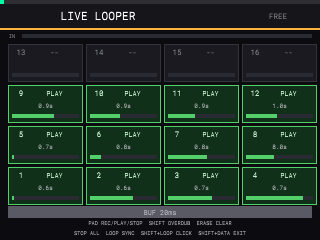
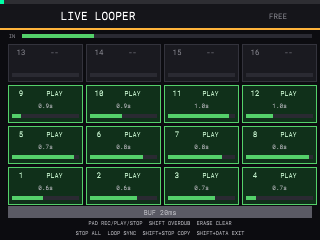
feat(looper): SHIFT+STOP copies closed loops to new pads
Stop the loops, copy each closed loop into the Looper RAM, close the
fullscreen view, then write the buffers through the app's buffered
Extract path to free sampler pads named Loop 1..Loop 16. It is
all-or-nothing: not enough free pads leaves the view open with a notice.
The footer and docs show the new combo.

diff --git a/rust/crates/minimod/src/looper_bounce.rs b/rust/crates/minimod/src/looper_bounce.rs
@@ -1,0 +1,106 @@
+//! Copy the Live Looper's closed loops into new sampler pads.
+
+use core::ffi::CStr;
+
+use mpc_sample_sdk::platform::extract;
+
+use crate::backend::looper::{
+    looper_close, looper_copy_loop, looper_loop_len, looper_notice, looper_stop_all,
+};
+
+/// One name per looper pad, used as the new sample's name.
+const NAMES: [&CStr; 16] = [
+    c"Loop 1", c"Loop 2", c"Loop 3", c"Loop 4", c"Loop 5", c"Loop 6", c"Loop 7", c"Loop 8",
+    c"Loop 9", c"Loop 10", c"Loop 11", c"Loop 12", c"Loop 13", c"Loop 14", c"Loop 15", c"Loop 16",
+];
+
+/// The first `count` empty pads on the live Sample page, or `None`.
+fn free_pads(count: usize) -> Option<Vec<i32>> {
+    let surface = crate::control::surface();
+    if surface == 0 {
+        return None;
+    }
+    let mut found = Vec::with_capacity(count);
+    for pad in 0..128i32 {
+        if found.len() == count {
+            break;
+        }
+        if crate::pads::sample_for_pad(surface, pad).is_none() {
+            found.push(pad);
+        }
+    }
+    (found.len() == count).then_some(found)
+}
+
+/// Stop the loops, write every closed loop to an empty pad and report.
+///
+/// Returns `true` when the caller may close the looper: every loop was copied,
+/// or there was nothing to copy. A partial copy or a full ring keeps the view
+/// open with a notice.
+#[must_use]
+pub fn copy_all() -> bool {
+    looper_stop_all();
+    let mut loops = Vec::new();
+    for pad in 0..NAMES.len() {
+        let len = looper_loop_len(pad);
+        if len == 0 {
+            continue;
+        }
+        let Ok(frames) = usize::try_from(len) else {
+            continue;
+        };
+        let mut audio = vec![0.0_f32; frames];
+        if looper_copy_loop(pad, &mut audio) != len {
+            looper_notice("COPY: read failed");
+            return false;
+        }
+        loops.push((pad, audio));
+    }
+    if loops.is_empty() {
+        looper_close();
+        crate::paint::show_toast("Looper: no loops");
+        return true;
+    }
+    let Some(destinations) = free_pads(loops.len()) else {
+        let message = format!("COPY: need {} empty pads", loops.len());
+        looper_notice(&message);
+        return false;
+    };
+    // Extract must run on the native Sample page, not under the fullscreen
+    // looper overlay. The loops are already copied into `loops`, so closing
+    // first keeps the engine's buffers untouched.
+    looper_close();
+    let screen = crate::paint::screen();
+    let Some(state) = crate::selection::page_state(screen) else {
+        crate::paint::show_toast("Looper: no Sample page");
+        return false;
+    };
+    for ((pad, audio), _destination) in loops.iter().zip(destinations) {
+        let Ok(frames) = u32::try_from(audio.len()) else {
+            crate::paint::show_toast("Looper: copy failed");
+            return false;
+        };
+        // Use the same buffered Extract path as HPSS rather than the seeded
+        // `generated` path: it lets the app assign the next free pad itself and
+        // remains stable across several writes in one command.
+        let request = extract::Request {
+            screen,
+            state,
+            name: NAMES[*pad],
+            buffer: Some(audio),
+            source_frames: frames,
+            channels: 1,
+            start: 0,
+            end: frames,
+            destination: None,
+        };
+        // SAFETY: `screen` and `state` are the live Sample page on this UI
+        // thread and the audio stays alive through the synchronous call.
+        if unsafe { extract::run(&request) }.is_err() {
+            crate::paint::show_toast("Looper: copy failed");
+            return false;
+        }
+    }
+    crate::paint::show_toast(&format!("Looper: copied {} loops", loops.len()));
+    true
+}

diff --git a/rust/crates/minimod/src/ui.rs b/rust/crates/minimod/src/ui.rs
@@ -15,6 +15,8 @@ use mpc_sample_sdk::{ButtonEvent, ButtonFlow};
 
 /// The app's CHOP key.
 pub use mpc_sample_sdk::event::button::CHOP as CHOP_KEY;
+/// The looper's STOP button; SHIFT+STOP copies the loops to pads and exits.
+const LOOPER_STOP: u32 = 0x51;
 /// A full press, as the app reports it.
 /// PLUS.
 use mpc_sample_sdk::event::button::PLUS as KEY_PLUS;
@@ -154,12 +156,18 @@ pub fn press(state: &mut State, event: &ButtonEvent, hooks: Hooks) -> Flow {
             Action::Erase(on) => state.erase = i32::from(on),
             Action::Looper => {
                 let was = looper::looper_is_open() != 0;
-                let _ = looper::looper_button(
-                    code,
-                    i32::try_from(down).unwrap_or(0),
-                    state.shift,
-                    state.erase,
-                );
+                if code == LOOPER_STOP && down != 0 && state.shift != 0 {
+                    // SHIFT+STOP bounces every closed loop to a free pad and
+                    // closes the view; a failed copy keeps it open.
+                    let _ = crate::looper_bounce::copy_all();
+                } else {
+                    let _ = looper::looper_button(
+                        code,
+                        i32::try_from(down).unwrap_or(0),
+                        state.shift,
+                        state.erase,
+                    );
+                }
                 if was && looper::looper_is_open() == 0 {
                     crate::looper_lights::hide();
                     state.shift = 0;

diff --git a/rust/crates/dsp/src/looper.rs b/rust/crates/dsp/src/looper.rs
@@ -530,6 +530,41 @@ impl Engine {
         true
     }
 
+    /// Closed length of one loop, in frames.
+    #[must_use]
+    pub fn loop_len(index: usize) -> u32 {
+        PADS_ARRAY
+            .get(index)
+            .map_or(0, |pad| pad.len.load(Ordering::Acquire))
+    }
+
+    /// Copy one closed loop into `out`; returns the frames copied.
+    ///
+    /// The caller stops the engine first, so the audio thread is no longer
+    /// writing the pad. The pool is never freed and each loop has its own
+    /// `MAX_FRAMES` slot.
+    pub fn copy_loop(index: usize, out: &mut [f32]) -> u32 {
+        let Some(pad) = PADS_ARRAY.get(index) else {
+            return 0;
+        };
+        let len = pad.len.load(Ordering::Acquire).min(MAX_FRAMES as u32);
+        let pool = POOL.load(Ordering::Acquire);
+        if len == 0 || pool.is_null() {
+            return 0;
+        }
+        let count = usize::try_from(len).unwrap_or(0).min(out.len());
+        if count == 0 {
+            return 0;
+        }
+        // SAFETY: the pool is a process-lifetime mapping with PADS slots of
+        // MAX_FRAMES f32 each; the engine is stopped, so this read does not
+        // race a writer, and `out` has room for `count` elements.
+        unsafe {
+            core::ptr::copy_nonoverlapping(pool.add(index * MAX_FRAMES), out.as_mut_ptr(), count);
+        }
+        u32::try_from(count).unwrap_or(0)
+    }
+
     /// MAIN VOLUME, 0..127.
     pub fn set_master(value: u32) {
         MASTER.store(value.min(127), Ordering::Release);

diff --git a/rust/crates/minimod/src/backend/looper.rs b/rust/crates/minimod/src/backend/looper.rs
@@ -34,6 +34,27 @@ pub fn looper_button(code: u32, down: i32, shift: i32, erase: i32) -> i32 {
     i32::from(Engine::button(code, down != 0, shift != 0, erase != 0))
 }
 
+/// Stop every loop before copying it out.
+pub fn looper_stop_all() {
+    Engine::stop_all();
+}
+
+/// Closed length of one loop, in frames.
+#[must_use]
+pub fn looper_loop_len(index: usize) -> u32 {
+    Engine::loop_len(index)
+}
+
+/// Copy one closed loop into `out`.
+pub fn looper_copy_loop(index: usize, out: &mut [f32]) -> u32 {
+    Engine::copy_loop(index, out)
+}
+
+/// Close the fullscreen view, keeping the loops in RAM.
+pub fn looper_close() {
+    Engine::close();
+}
+
 /// Set MAIN VOLUME, 0..127.
 pub fn looper_set_master(value: u32) {
     Engine::set_master(value);

diff --git a/mod/tests/emulator_looper.py b/mod/tests/emulator_looper.py
@@ -176,6 +176,8 @@ def main():
 
     # --- the record latency is the firmware's own ring geometry, read from the
     #     device: one full ALSA buffer per direction, no probe involved
+    tap('SAMPLE')
+    time.sleep(1.0)
     route('tone')
     if u32(symbol('g_open')):
         close_looper()          # a previous run may have left the view open

diff --git a/rust/crates/minimod/src/looper_view.rs b/rust/crates/minimod/src/looper_view.rs
@@ -262,7 +262,7 @@ fn footer(graphics: usize, view: &View) {
     );
     paint::text(
         graphics,
-        "STOP ALL  LOOP SYNC  SHIFT+LOOP CLICK  SHIFT+DATA EXIT",
+        "STOP ALL  LOOP SYNC  SHIFT+STOP COPY  SHIFT+DATA EXIT",
         8,
         224,
         304,

diff --git a/mod/tests/emulator_looper_lights.py b/mod/tests/emulator_looper_lights.py
@@ -47,6 +47,8 @@ def main():
         got = pads()[pad]
         assert got == colour, f'{label}: pad {pad + 1} is {got}, want {colour}'
 
+    tap('SAMPLE')
+    time.sleep(1.0)
     before = pads()
 
     # SHIFT + DATA opens the menu; row 6 is Live Looper.

diff --git a/rust/crates/minimod/src/lib.rs b/rust/crates/minimod/src/lib.rs
@@ -20,6 +20,7 @@ pub mod cfg;
 pub mod input;
 pub mod jobflow;
 pub mod levels;
+pub mod looper_bounce;
 pub mod looper_lights;
 pub mod looper_view;
 pub mod menu;

diff --git a/README.md b/README.md
@@ -60,7 +60,7 @@ level of the SD card and power on; see [Install](#install).
 | **Add Reverb** — adds the firmware's stereo reverb and a rendered tail to a new pad copy | `SHIFT` + `DATA`, choose **Add Reverb**, `DATA` |
 | **Vinyl / Lo-Fi** — applies the firmware's Vinyl or Decimator effect to a new pad copy | `SHIFT` + `DATA`, choose **Vinyl** or **Lo-Fi**, `DATA` |
 | **Synth** — eight characters (bass, piano, pads, lead, bells, strings, voice, organ); previews C2–D#3 from pads 1–16 with a purple 1→16 brightness gradient, `PLUS`/`MINUS` shift the pads by 8 semitones, the page shows the played note, and `DATA` renders the last pressed pad's note to a new pad (C2 when none was played) | `SHIFT` + `DATA`, choose **Synth**; turn `DATA` to switch character, K1/K2/K3 shape it |
-| **Live Looper** — a fullscreen 16-pad looper: each pad records a loop from the selected input source and plays it back; overdub, per-pad clear, stop-all, sync pulse with loop-length quantization and latency compensation; pads light by state (empty dim, recording red, overdub amber, playing green, stopped dim green) | `SHIFT` + `DATA`, choose **Live Looper**; pads record/play/stop, `SHIFT`+pad overdubs, `ERASE`+pad clears, `STOP` stops all, `LOOP` syncs, `SHIFT`+`DATA` exits |
+| **Live Looper** — a fullscreen 16-pad looper: each pad records a loop from the selected input source and plays it back; overdub, per-pad clear, stop-all, sync pulse with loop-length quantization and latency compensation; pads light by state (empty dim, recording red, overdub amber, playing green, stopped dim green); `SHIFT`+`STOP` copies every closed loop to a new pad and exits | `SHIFT` + `DATA`, choose **Live Looper**; pads record/play/stop, `SHIFT`+pad overdubs, `ERASE`+pad clears, `STOP` stops all, `LOOP` syncs, `SHIFT`+`STOP` copies and exits, `SHIFT`+`DATA` exits |
 
 The trim and pitch changes confirm themselves on screen for a second. HPSS,
 Spectral Chop, Add Reverb, Vinyl, Lo-Fi and Synth are in the small
@@ -95,7 +95,7 @@ input + output. There is no manual latency trim. The latency has not been proven
 sample-accurate for every physical input and output. The MAIN VOLUME is kept in
 `/data/minimod-looper.cfg`; the loops follow `MAIN VOLUME` like the rest of the
 app. Pads are blocked from the app while the view is open and
-`SHIFT`+`DATA` closes it. The physical pads follow the looper state: empty pads are dim, a recording pad is red, an overdub is amber, a playing loop is bright green and a stopped loop is dim green; closing the view restores the app's native pad colours. Details: [`docs/LIVE-LOOPER.md`](docs/LIVE-LOOPER.md).
+`SHIFT`+`DATA` closes it. The physical pads follow the looper state: empty pads are dim, a recording pad is red, an overdub is amber, a playing loop is bright green and a stopped loop is dim green; closing the view restores the app's native pad colours. `SHIFT`+`STOP` stops the loops, writes each closed loop to a new free pad as `Loop 1`…`Loop 16`, and exits. Details: [`docs/LIVE-LOOPER.md`](docs/LIVE-LOOPER.md).
 
 External MIDI plays the selected sample chromatically over the whole keyboard
 while 16 Levels is active, measured from the sample's own root note (C3 when it

diff --git a/docs/LIVE-LOOPER.md b/docs/LIVE-LOOPER.md
@@ -270,3 +270,11 @@ While the fullscreen view is open, the sixteen physical pads mirror the loops:
 The mapping is updated from each looper snapshot and uses the SDK's per-pad
 AC50 overrides. Closing the view clears the overrides and restores the app's
 saved native pad colours, so the normal selection and playback lighting returns.
+
+## Copy loops to pads
+
+`SHIFT` + `STOP` stops every loop, writes each closed loop to the next free
+sampler pad (named `Loop 1` through `Loop 16`), and closes the view. It is
+all-or-nothing: if there are not enough free pads, the looper stays open with a
+notice and nothing is written. The loops remain in the looper's RAM as well, so
+reopening the view still shows them.
